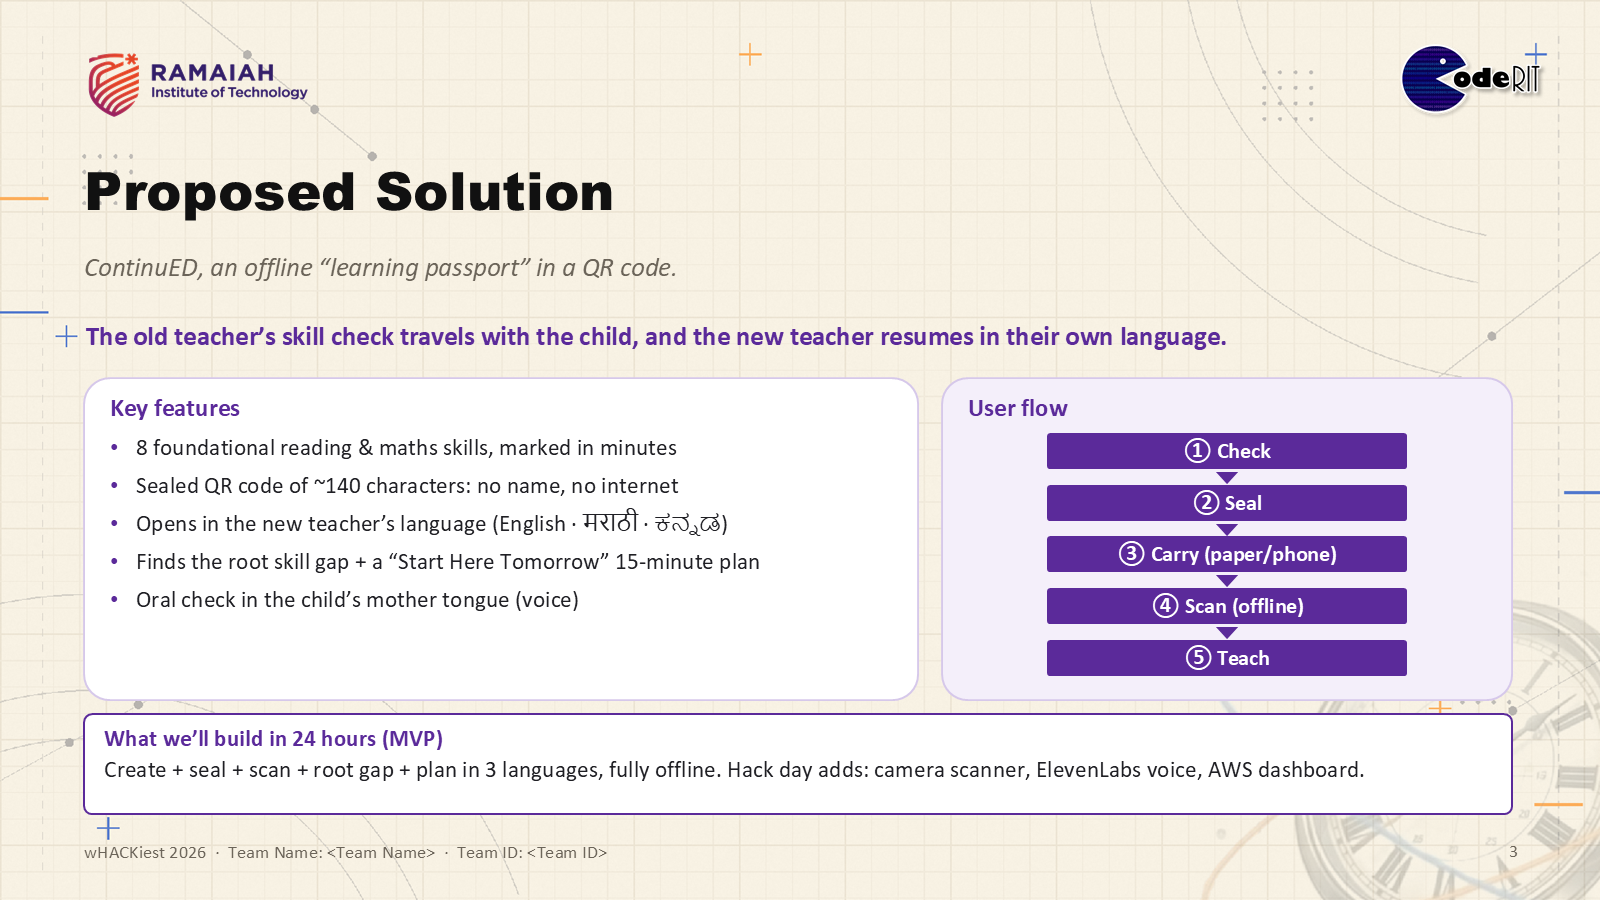
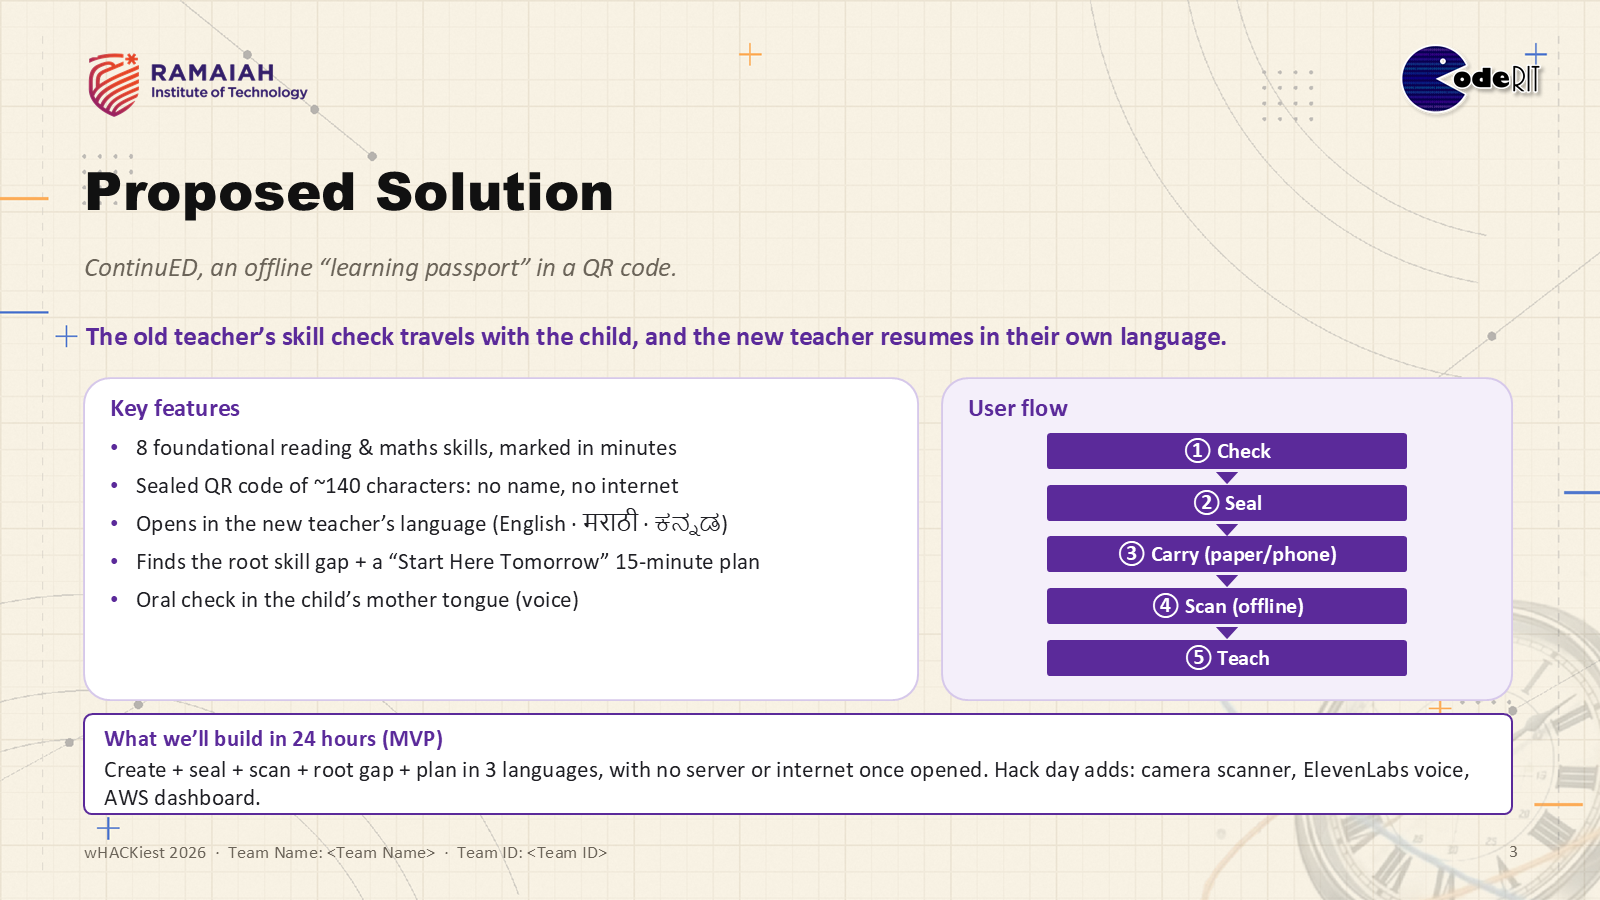
Add video script; align deck wording; rename slide-5-only file
- docs/pitch/video/video_script.md: 4-speaker, ~4.5 min script with claims check
- Deck slide 2: 'rural Std III children' (ASER surveys rural India)
- Deck slide 3: MVP 'with no server or internet once opened' (PWA planned)
- slide5_architecture.md: PWA marked planned
- Rename ContinuED_slide5_filled.pptx -> OLD_slide5_only_NOT_the_full_deck.pptx
- WHAT_WE_BUILT.md: plain-English entry

Changed region(s): [[0.375, 0.84, 0.9062, 0.8711], [0.0625, 0.8711, 0.1562, 0.9022]]

diff --git a/docs/pitch/video/video_script.md b/docs/pitch/video/video_script.md
@@ -1,0 +1,182 @@
+# ContinuED: video pitch script (wHACKiest 2026, Track 04 "UnlockED")
+
+**Length:** 611 spoken words. That is about 4:22 at 140 words per minute, or about 4:32 with short pauses for slide changes. The official limit is 3 to 5 minutes.
+**Speakers:** Omkar → Saisagar → Venkat → Ramith, taking turns.
+**Sources of every fact:** `deliverables/ppt/content_final.md` (slide text), `ContinuED/docs/pitch/slide5_architecture.md` (slide 5), and the 4 mockups in `ContinuED/docs/pitch/mockups/`. See the "Claims check" at the end.
+
+> **Honesty rules for the recording**
+> - The 4 mockup screens are a **design preview**. Always call them that. Never say the app is "finished", "live" or "fully working".
+> - The camera scanner, ElevenLabs voice, the AWS dashboard and the offline PWA are **planned (hack day)**.
+> - Raju is an **example child** (an illustrative story, not a real case). The script says "Imagine Raju" so this is clear.
+
+Timestamps are approximate and assume 140 words per minute with no pauses.
+
+---
+
+## 1. Hook / intro
+
+| Time | Speaker | On screen | Spoken words |
+|---|---|---|---|
+| 0:00–0:18 | Omkar | Slide 1 (cover) | We're team ContinuED, for Track 4, UnlockED. Imagine Raju. He's eight. He moves from a Marathi school in Maharashtra to a Kannada school in Karnataka. His new teacher asks: what can Raju already do? |
+
+## 2. Problem (slide 2)
+
+| Time | Speaker | On screen | Spoken words |
+|---|---|---|---|
+| 0:18–1:08 | Saisagar | Slide 2 (Problem Statement) | Today, nobody can answer that. When a migrant child changes school, their learning history doesn't travel with them. CPR and UNICEF, citing Census 2011, say 39.2 percent of the 19.64 million people who migrated into Maharashtra in 2001 to 2010 were children. UNESCO's GEM Report says about 80 percent of temporary migrant children in seven Indian cities lacked access to education near work sites. ASER 2024 says only 23.4 percent of rural Std Three children can read a Std Two text. By the RTE Act, admission can't wait for a transfer certificate. APAAR ID stores records, but doesn't say which skill to teach next. So the teacher guesses, or restarts from zero, and Raju falls further behind. |
+
+## 3. Solution (slide 3)
+
+| Time | Speaker | On screen | Spoken words |
+|---|---|---|---|
+| 1:08–1:20 | Venkat | Slide 3 (Proposed Solution) | Our answer is ContinuED: an offline learning passport in a QR code. The old teacher's skill check travels with the child. Five steps: check, seal, carry, scan, teach. |
+
+## 4. Design preview walkthrough (mockups 01 → 04)
+
+| Time | Speaker | On screen | Spoken words |
+|---|---|---|---|
+| 1:20–1:34 | Venkat | `mockups/01_create.png` | Here's a design preview: mockups of our planned screens, not a finished app. Raju's old teacher marks 8 foundational reading and maths skills in minutes. Raju needs help with subtraction with borrowing. |
+| 1:34–1:43 | Venkat | `mockups/02_sealed_qr.png` | She taps Seal: a QR code of about 140 characters, with zero personal data. Print it, or keep it on a phone. |
+| 1:43–1:57 | Venkat | `mockups/03_scan_result.png` | In Karnataka, the new teacher opens it with no internet, and can read it in Kannada, Marathi or English. Seal verified. Start here: subtraction with regrouping, because everything after it depends on it. |
+| 1:57–2:08 | Venkat | `mockups/04_start_here.png` | Start Here Tomorrow: two 15-minute activities, like breaking a bundle of ten sticks to borrow. The camera scanner and ElevenLabs voice are planned for hack day. |
+
+## 5. Tech stack (slide 4)
+
+| Time | Speaker | On screen | Spoken words |
+|---|---|---|---|
+| 2:08–2:30 | Ramith | Slide 4 (Tech Stack) | Our stack costs zero rupees. React, TypeScript, Vite and Tailwind run in any phone browser. lz-string and a QR code work on paper, no internet. An HMAC-SHA256 seal detects edited marks. English, Marathi and Kannada packs are bundled. Planned: an offline Progressive Web App, ElevenLabs voice, and AWS on the free tier. |
+
+## 6. Architecture (slide 5)
+
+| Time | Speaker | On screen | Spoken words |
+|---|---|---|---|
+| 2:30–3:00 | Omkar | Slide 5 (architecture diagram) | Offline first, cloud later. Everything important happens on the phone. Teacher A's app compresses and seals the skill check into a QR code. Teacher B opens it offline. The app checks the seal, walks our skill graph to find the first skill the child is stuck on, and shows tomorrow's plan in Teacher B's language. Later, a planned sync sends anonymous events to AWS Lambda and DynamoDB for a district dashboard. |
+
+## 7. Novelty (slide 6)
+
+| Time | Speaker | On screen | Spoken words |
+|---|---|---|---|
+| 3:00–3:19 | Saisagar | Slide 6 (Novelty / Innovation) | ContinuED tells the teacher what to teach tomorrow, not just marks or certificates. It combines a prerequisite skill graph, a sealed offline QR, and mother-tongue voice. It's private by design: only a pseudonymous ID. In our comparison, only ContinuED gives a what-to-teach-tomorrow plan. |
+
+## 8. Impact & feasibility (slide 7)
+
+| Time | Speaker | On screen | Spoken words |
+|---|---|---|---|
+| 3:19–3:45 | Omkar | Slide 7 (Impact & Feasibility) | It helps migrant children, receiving teachers and district officials. In a pilot, we'll measure days until a child is taught at the right level. A new language is one text file. It's aligned with NIPUN Bharat's goal: every child reaching foundational literacy and numeracy by the end of Grade 3, by 2026–27. It's feasible: four people, a 24-hour build plan, zero rupees. |
+
+## 9. Business model + Track 4 employment link (slide 8)
+
+| Time | Speaker | On screen | Spoken words |
+|---|---|---|---|
+| 3:45–4:17 | Ramith | Slide 8 (Business Model) | It's free for teachers and families. Customers are state education departments, district officials and NGOs. The UNESCO GEM Report team says about 10 million children lived in rural households with a seasonal-migrant family member in 2013. Revenue comes from government implementation and support contracts, and CSR or NGO grants. We'll pilot on one corridor, like Maharashtra to Karnataka. For Track 4, Phase 2 carries older migrant youth's vocational skills into ITI courses and jobs. |
+
+## 10. Closing line
+
+| Time | Speaker | On screen | Spoken words |
+|---|---|---|---|
+| 4:17–4:24 | Ramith | Slide 1 (cover), or `mockups/04_start_here.png` | Raju's learning shouldn't restart from zero. ContinuED: a learning passport that travels with the child. Thank you! |
+
+---
+
+## Word count and duration
+
+Counted with `wc -w` on the spoken text only. Duration = words ÷ 140 words per minute.
+
+| # | Section | Speaker | Words | ≈ Duration |
+|---|---|---|---|---|
+| 1 | Hook / intro | Omkar | 36 | 0:15 |
+| 2 | Problem (slide 2) | Saisagar | 117 | 0:50 |
+| 3 | Solution (slide 3) | Venkat | 28 | 0:12 |
+| 4 | Design preview (mockups 01–04) | Venkat | 111 (32 + 22 + 31 + 26) | 0:48 |
+| 5 | Tech stack (slide 4) | Ramith | 52 | 0:22 |
+| 6 | Architecture (slide 5) | Omkar | 71 | 0:30 |
+| 7 | Novelty (slide 6) | Saisagar | 43 | 0:18 |
+| 8 | Impact & feasibility (slide 7) | Omkar | 62 | 0:27 |
+| 9 | Business model (slide 8) | Ramith | 74 | 0:32 |
+| 10 | Closing line | Ramith | 17 | 0:07 |
+| | **Total** | | **611** | **≈ 4:22 (≈ 4:32 with pauses)** |
+
+**Per speaker:** Omkar 167 words (≈1:12) · Saisagar 160 (≈1:09) · Venkat 141 (≈1:00) · Ramith 143 (≈1:01).
+Novelty went to Saisagar and Impact went to Omkar to keep the split roughly even. Omkar's part is a little longer because he opens the video.
+
+**If the recording runs over 4:30**, cut these first (none of them a key fact):
+- Section 8: drop "A new language is one text file."
+- Section 9: drop "like Maharashtra to Karnataka".
+
+---
+
+## Recording checklist
+
+- [ ] **Tool (free):** OBS Studio, or PowerPoint's own **Record** feature (Record tab → record from the current slide; it captures your voice and the slides together).
+- [ ] **Resolution:** export or record at **1080p** (1920×1080).
+- [ ] **Room:** quiet room, door shut, fans off, phones on silent. Use a headset mic if you have one.
+- [ ] **Slides ready:** the final deck (slides 1–8) plus the 4 mockups, in order: 01_create → 02_sealed_qr → 03_scan_result → 04_start_here. Each mockup already shows a "Design preview" label. Keep it visible.
+- [ ] **Rehearse once with a timer.** Aim for 4:00–4:30, and stay under 5:00.
+- [ ] **Speak slowly.** Say numbers clearly ("thirty-nine point two percent", "nineteen point six four million").
+- [ ] **Honesty check while recording:** say "design preview" for the mockups. Say "planned" for the camera scanner, ElevenLabs voice, AWS dashboard and offline PWA. Never say "fully working".
+- [ ] **Hand-offs:** each speaker starts recording a beat after the previous one stops, or record each person's part separately and join the clips.
+- [ ] **Upload to YouTube as Unlisted.**
+- [ ] **Title:** `ContinuED – wHACKiest 2026 Track 4`
+- [ ] Open the link in a private/incognito window to check that it plays, then paste it into the submission form.
+
+---
+
+## Claims check
+
+Each factual sentence in the script, with the line it comes from. "CF" = `deliverables/ppt/content_final.md`. "S5" = `ContinuED/docs/pitch/slide5_architecture.md`.
+The Raju story (age 8, Marathi school in Maharashtra → Kannada school in Karnataka, the family moving for work) is an **illustrative example from the brief, not a sourced fact**. "Age 8" and "TC-4821" also appear in the mockups.
+
+| # | Script sentence (short) | Source |
+|---|---|---|
+| 1 | "Track 4, UnlockED" | CF line 9 (`TRACK: Track 04 – UnlockED`) |
+| 2 | "a migrant child changes school, their learning history doesn't travel with them" | CF line 19 (slide 2 subtitle) |
+| 3 | "CPR and UNICEF, citing Census 2011 … 39.2 percent of the 19.64 million … into Maharashtra in 2001 to 2010 were children" | CF line 22; source named on CF line 30 ("CPR & UNICEF India (2021), citing Census 2011") |
+| 4 | "UNESCO's GEM Report … about 80 percent of temporary migrant children in seven Indian cities lacked access to education near work sites" | CF line 23; source on CF line 30 ("UNESCO GEM Report 2019") |
+| 5 | "ASER 2024 … only 23.4 percent of Std Three children can read a Std Two text" | CF line 24 |
+| 6 | "By the RTE Act, admission can't wait for a transfer certificate" | CF line 27 (RTE Act, Sec. 5) |
+| 7 | "APAAR ID stores records, but doesn't say which skill to teach next" | CF line 28 |
+| 8 | "the teacher guesses, or restarts from zero, and … falls further behind" | CF line 25 |
+| 9 | "an offline learning passport in a QR code" | CF line 34 |
+| 10 | "The old teacher's skill check travels with the child" | CF line 35 |
+| 11 | "Five steps: check, seal, carry, scan, teach" | CF line 42 |
+| 12 | "marks 8 foundational reading and maths skills in minutes" | CF line 37; screen: mockup 01 |
+| 13 | "needs help with subtraction with borrowing" | Mockup 01 (example data shown on screen; not a statistic) |
+| 14 | "a QR code of about 140 characters, with zero personal data" | CF line 38 ("~140 characters: no name"); CF line 68 ("zero personal data in the QR"); mockup 02 badges |
+| 15 | "Print it, or keep it on a phone" | CF line 42 ("Carry (paper/phone)"); mockup 02 ("Print paper slip") |
+| 16 | "the new teacher opens it offline" | CF line 42 ("Scan (offline)") |
+| 17 | "can read it in Kannada, Marathi or English" | CF line 39 |
+| 18 | "Seal verified. Start here: subtraction with regrouping, because everything after it depends on it" | Mockup 03 (on-screen text); "root skill gap" on CF line 40 |
+| 19 | "two 15-minute activities, like breaking a bundle of ten sticks to borrow" | Mockup 04 (on-screen text); "15-minute plan" on CF line 40 |
+| 20 | "camera scanner and ElevenLabs voice are planned for hack day" | CF line 43 ("Hack day adds: camera scanner, ElevenLabs voice, AWS dashboard"); S5 lines 29–30 |
+| 21 | "Our stack costs zero rupees" | CF line 47 |
+| 22 | "React, TypeScript, Vite and Tailwind run in any phone browser" | CF line 49 |
+| 23 | "lz-string and a QR code work on paper, no internet" | CF line 51 |
+| 24 | "An HMAC-SHA256 seal detects edited marks" | CF line 52 |
+| 25 | "English, Marathi and Kannada packs are bundled" | CF line 53 |
+| 26 | "Planned: an offline Progressive Web App, ElevenLabs voice, and AWS on the free tier" | CF lines 50, 54, 56. "Planned" status: CF line 43 and S5 lines 29–33. The brief also asked for the PWA to be called planned. Note: S5 line 24 lists the "offline web app / PWA" as MVP; see the note below. |
+| 27 | "Offline first, cloud later. Everything important happens on the phone" | S5 line 11 (title); S5 line 36 (speaker notes) |
+| 28 | "Teacher A's app compresses and seals the skill check into a QR code" | S5 line 15; S5 line 36 |
+| 29 | "Teacher B opens it offline … checks the seal, walks our skill graph to find the first skill the child is stuck on, and shows tomorrow's plan in Teacher B's language" | S5 line 36; S5 line 17 |
+| 30 | "a planned sync sends anonymous events to AWS Lambda and DynamoDB for a district dashboard" | S5 line 18; planned status: S5 lines 31–33 and 39 |
+| 31 | "tells the teacher what to teach tomorrow, not just marks or certificates" | CF line 66 |
+| 32 | "combines a prerequisite skill graph, a sealed offline QR, and mother-tongue voice" | CF line 67 |
+| 33 | "private by design: only a pseudonymous ID" | CF line 68 |
+| 34 | "In our comparison, only ContinuED gives a what-to-teach-tomorrow plan" | CF line 73 (✔ for ContinuED, ✘ for the other three) |
+| 35 | "helps migrant children, receiving teachers and district officials" | CF line 83 |
+| 36 | "In a pilot, we'll measure days until a child is taught at the right level" | CF line 84 |
+| 37 | "A new language is one text file" | CF line 85 |
+| 38 | "aligned with NIPUN Bharat's goal: every child reaching foundational literacy and numeracy by the end of Grade 3, by 2026–27" | CF line 86; source on CF line 96 |
+| 39 | "four people, a 24-hour build plan, zero rupees" | CF lines 89–90 |
+| 40 | "free for teachers and families" | CF line 100; CF line 104 |
+| 41 | "Customers are state education departments, district officials and NGOs" | CF line 102 |
+| 42 | "The UNESCO GEM Report team says about 10 million children lived in rural households with a seasonal-migrant family member in 2013" | CF line 103; source on CF line 108 |
+| 43 | "government implementation and support contracts, and CSR or NGO grants" | CF line 104 ("B2G implementation + support contracts · CSR / NGO grants") |
+| 44 | "pilot on one corridor, like Maharashtra to Karnataka" | CF line 105 |
+| 45 | "Phase 2 carries older migrant youth's vocational skills into ITI courses and jobs" | CF line 107 |
+| 46 | "a learning passport that travels with the child" | CF line 15 (slide 1 tagline) |
+
+**Notes for the team (things to double-check)**
+- **ASER 23.4% (resolved):** the official PIB summary gives 23.4% as the overall Std III figure (20.9% in 2018 → 23.4% in 2024). ASER only surveys **rural** India, so the slide and script now say "rural Std III children".
+- **Offline status (resolved):** the 26 Nov MVP runs entirely on the phone, with no server and no internet needed once the page is opened. Installing it to work in airplane mode, even after a reload (the PWA), is planned for hack day. Slide 3 and the slide 5 notes now say the same.
+- **Subtraction statistic (33.7%, CF line 24)** was left out to save time. It can be added back after the 23.4% figure.
+- **Guarantee Card (CF line 29) and "Works across states" (CF line 75)** are on the slides but not spoken, to save time.

diff --git a/docs/WHAT_WE_BUILT.md b/docs/WHAT_WE_BUILT.md
@@ -4,6 +4,22 @@ A running diary of what's in this repo, written so anyone (teammates, judges, fu
 
 ---
 
+## 24 Nov 2026: Video script + deck fixes (Omkar, branch `omkar/stage0-deliverables`)
+
+**What we made:** the video script, `docs/pitch/video/video_script.md`.
+- **Length:** 4–4.5 minutes (611 spoken words), shared between Omkar, Saisagar, Venkat and Ramith.
+- **Format:** each part says what's on screen (slide number or mockup) and exactly what to say.
+- **Also included:** a recording checklist (OBS Studio or PowerPoint's Record, 1080p, YouTube Unlisted) and a "claims check" that links every fact in the script back to the slides.
+
+**Fixes so the slides and script say the same thing:**
+- **Slide 2** now says "23.4% of **rural** Std III children". ASER only surveys rural India.
+- **Slide 3's MVP box** no longer says "fully offline". It now says the app works "with no server or internet once opened". Installing it for airplane mode (the PWA) is planned for hack day, and the slide 5 notes now say this too.
+- **Renamed** the slide-5-only file to `OLD_slide5_only_NOT_the_full_deck.pptx`, because opening it made the deck look empty. **Use `docs/pitch/deck/ContinuED_Track4.pptx`.**
+
+**Honesty rules for recording:** call the mockups a "design preview", call voice / camera / AWS / airplane mode "planned", and Raju is an example child.
+
+---
+
 ## 24 Nov 2026: Full 8-slide pitch deck (Omkar, branch `omkar/stage0-deliverables`)
 
 **What we made:** the complete deck in the official template: `docs/pitch/deck/ContinuED_Track4.pptx`. There are exactly 8 slides and no extras.
@@ -32,7 +48,7 @@ We dropped the popular "10.7 million children" figure because nobody could verif
 **What we made**
 - **Architecture diagram** (`docs/pitch/architecture.png`): one picture for slide 5. Top row: the 5 steps (check → seal → carry → scan → teach). Middle: what runs on each teacher's phone. Bottom (dashed): the cloud parts we'll add later (ElevenLabs voice, AWS, the dashboard). Solid boxes = core MVP. Dashed boxes = planned.
 - **Slide 5 text** (`docs/pitch/slide5_architecture.md`): title, bullets, block labels and a 30-second script for the slide.
-- **Slide 5, ready-made** (`docs/pitch/ContinuED_slide5_filled.pptx`): the official template with **only slide 5 filled in** (diagram + a one-line subtitle). The other 7 slides are untouched and there are still exactly 8 slides. Open it, copy slide 5, and paste it into our shared Google Slides deck. *Checked:* slide count, other slides unchanged, nothing overlapping. *Not checked:* how it looks after pasting into Google Slides. The smallest grey labels in the diagram are hard to read at slide size.
+- **Slide 5, ready-made** (now renamed `docs/pitch/OLD_slide5_only_NOT_the_full_deck.pptx`; use the full deck instead): the official template with **only slide 5 filled in** (diagram + a one-line subtitle). The other 7 slides are untouched and there are still exactly 8 slides. Open it, copy slide 5, and paste it into our shared Google Slides deck. *Checked:* slide count, other slides unchanged, nothing overlapping. *Not checked:* how it looks after pasting into Google Slides. The smallest grey labels in the diagram are hard to read at slide size.
 - **Screen mockups** (`docs/pitch/mockups/`): 4 phone-screen pictures for the video (Create, sealed QR code, Scan result, Start Here Tomorrow). Each one is marked **"Design preview"**, because the real screens are built on 25 Nov.
 
 **Why:** tonight's submission needs a PPT and a 3–5 min video that explains the idea and shows a prototype walkthrough. The working app comes next, so for now these images show what it will look like.

diff --git a/docs/pitch/deck/slide_content.md b/docs/pitch/deck/slide_content.md
@@ -21,7 +21,7 @@ LEFT column (bullets):
 - **The problem:** the child arrives at a new school, often in a new state and language, with no record of what they can do.
 - **Who it affects:** children of migrant families. 39.2% of the 19.64 million people who migrated into Maharashtra in 2001–10 were children.
 - **Why it matters:** about 80% of temporary migrant children in seven Indian cities lacked access to education near work sites.
-- **Weak foundations:** only 23.4% of Std III children can read a Std II text; 33.7% can do subtraction (ASER 2024).
+- **Weak foundations:** only 23.4% of rural Std III children can read a Std II text; 33.7% can do subtraction (ASER 2024).
 - **The result:** the new teacher guesses or restarts from zero → wrong level → the child falls further behind.
 RIGHT column, box titled "Existing solutions & their gaps":
 - **Transfer certificate:** by law, admission can't wait for it (RTE Act, Sec. 5), so a child can be admitted with no learning record at all.
@@ -40,7 +40,7 @@ LEFT, "Key features":
 - Finds the root skill gap + a "Start Here Tomorrow" 15-minute plan
 - Oral check in the child's mother tongue (voice)
 RIGHT, "User flow" (5 small boxes with arrows, or a numbered list): ① Check → ② Seal → ③ Carry (paper/phone) → ④ Scan (offline) → ⑤ Teach
-BOTTOM box, "What we'll build in 24 hours (MVP)": create + seal + scan + root gap + plan in 3 languages, fully offline. Hack day adds: camera scanner, ElevenLabs voice, AWS dashboard.
+BOTTOM box, "What we'll build in 24 hours (MVP)": create + seal + scan + root gap + plan in 3 languages, with no server or internet once opened. Hack day adds: camera scanner, ElevenLabs voice, AWS dashboard.
 
 ---
 ## SLIDE 4: Tech Stack
@@ -57,7 +57,7 @@ TABLE (3 columns: Layer | Tool | Why we picked it):
 
 ---
 ## SLIDE 5: Process Flow / Architecture
-COPY slide 5 exactly from g:\whackiest hackathon\ContinuED\docs\pitch\ContinuED_slide5_filled.pptx (image + subtitle). Don't change it.
+COPY slide 5 exactly from docs/pitch/OLD_slide5_only_NOT_the_full_deck.pptx (formerly ContinuED_slide5_filled.pptx) (image + subtitle). Don't change it.
 
 ---
 ## SLIDE 6: Novelty / Innovation

diff --git a/docs/pitch/slide5_architecture.md b/docs/pitch/slide5_architecture.md
@@ -21,7 +21,8 @@ Paste this into **slide 5** of the official template.
 ## Block labels (already in the image)
 | Block | Tech | Status |
 |---|---|---|
-| Create and Scan screens | React + TypeScript + Tailwind CSS (offline web app / PWA) | MVP |
+| Create and Scan screens | React + TypeScript + Tailwind CSS (runs on the phone, no server) | MVP |
+| Install for airplane mode | Progressive Web App (service worker) | Planned |
 | Capsule codec | lz-string compression + Web Crypto HMAC-SHA256 seal | MVP |
 | Skill graph + bottleneck engine | 8 foundational skills with prerequisites | MVP |
 | QR generator | qrcode.react | MVP |
